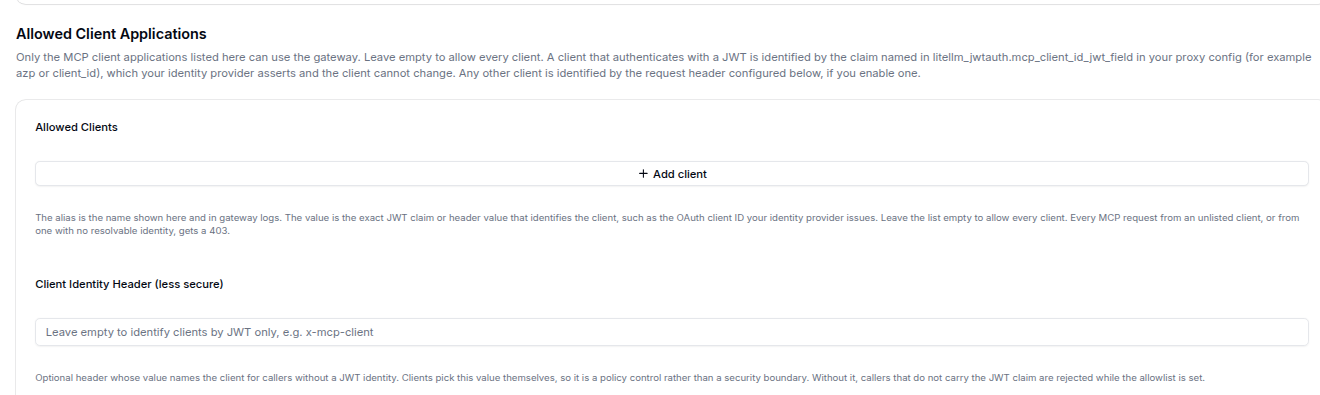
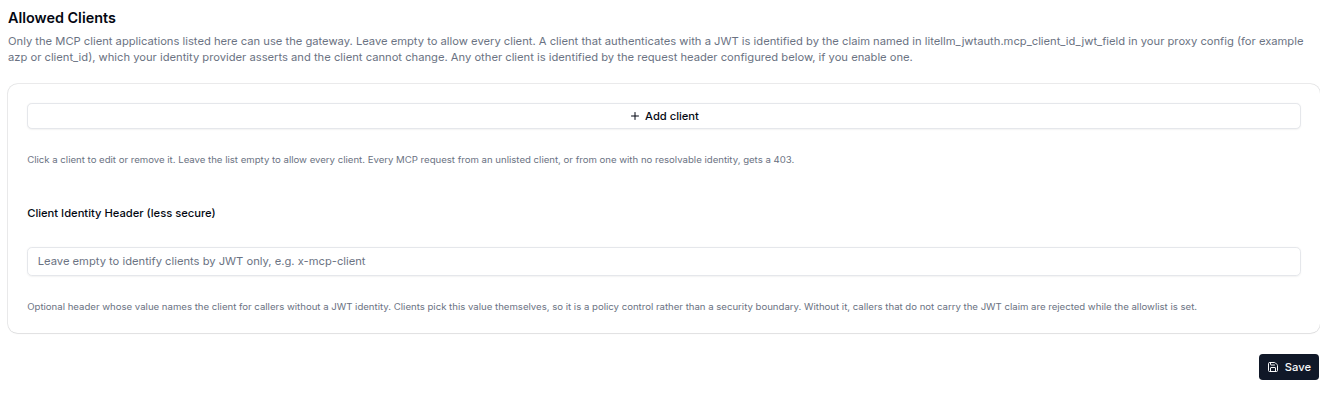
docs(mcp): describe allowed clients as cards edited in a dialog and refresh screenshots

diff --git a/docs/mcp_client_allowlist.md b/docs/mcp_client_allowlist.md
@@ -71,21 +71,28 @@ general_settings:
 
 ### Step 2: Add the allowlist in the Admin UI
 
-Open the MCP Servers page and switch to the **Network Settings** tab. The **Allowed Client Applications** section sits below the private IP ranges and starts out empty, which means every client is admitted.
+Open the MCP Servers page and switch to the **Network Settings** tab. The **Allowed Clients** section sits below the private IP ranges and starts out empty, which means every client is admitted.
 
 <Image
   img={require('../img/mcp_client_allowlist_ui_empty.png')}
   style={{width: '100%', display: 'block', margin: '0'}}
 />
 
-Click **Add client** under **Allowed Clients** and fill the row: **Alias** `Antigravity CLI`, **Value** `antigravity-cli`. Add one row per client application, for example a second row with **Alias** `Claude Code` and **Value** `claude-code`. If some of your callers use virtual keys instead of JWTs, also fill **Client Identity Header** with the header they will send, for example `x-mcp-client`. Click **Save**. The change is stored in the database and picked up by every proxy worker on its next settings poll, without a restart.
+Click **Add client**. A dialog opens with two fields: **Alias** `Antigravity CLI`, **Value** `antigravity-cli`. Click **Add** to close it; the client appears as a card with the alias in bold and the value in smaller gray text underneath. Add one card per client application, for example a second one with **Alias** `Claude Code` and **Value** `claude-code`. If some of your callers use virtual keys instead of JWTs, also fill **Client Identity Header** with the header they will send, for example `x-mcp-client`. Click **Save**. The change is stored in the database and picked up by every proxy worker on its next settings poll, without a restart.
 
 <Image
   img={require('../img/mcp_client_allowlist_ui_saved.png')}
   style={{width: '100%', display: 'block', margin: '0'}}
 />
 
-To go back to admitting every client, remove every row and click **Save** again; the setting is deleted rather than saved as an empty list. If an empty list is ever stored (for example through the API), or the stored value is not a list of alias and value pairs (for example a plain list of strings written by an older version), the page warns that every client is being denied. Add the rows you want and Save to replace it, or Save with the list empty to remove it.
+Click a card to change its alias or value, or to remove that client with **Remove client**. **Done** applies the edit to the card and **Cancel** leaves it as it was; nothing reaches the gateway until you click **Save** on the page.
+
+<Image
+  img={require('../img/mcp_client_allowlist_ui_edit_dialog.png')}
+  style={{width: '420px', display: 'block', margin: '0'}}
+/>
+
+To go back to admitting every client, remove every card and click **Save** again; the setting is deleted rather than saved as an empty list. If an empty list is ever stored (for example through the API), or the stored value is not a list of alias and value pairs (for example a plain list of strings written by an older version), the page warns that every client is being denied. Add the clients you want and Save to replace it, or Save with the list empty to remove it.
 
 <Image
   img={require('../img/mcp_client_allowlist_ui_deny_all.png')}
@@ -148,7 +155,7 @@ Rejected requests show up in the proxy log as `Rejected MCP request from a disal
 <Tabs>
 <TabItem value="ui" label="UI">
 
-MCP Servers page, **Network Settings** tab, **Allowed Client Applications** section. Each **Allowed Clients** row (alias and value) is one entry of `mcp_allowed_clients` and **Client Identity Header** maps to `mcp_client_id_header`. A row needs both fields; Save rejects a row with only one of them filled. A key that is set in config.yaml cannot be edited here; remove it from the file first.
+MCP Servers page, **Network Settings** tab, **Allowed Clients** section. Each card (alias and value) is one entry of `mcp_allowed_clients` and **Client Identity Header** maps to `mcp_client_id_header`. Cards are added and edited in a dialog that needs both fields before it lets you add or apply the client. A key that is set in config.yaml cannot be edited here; remove it from the file first.
 
 </TabItem>
 <TabItem value="config" label="config.yaml">
